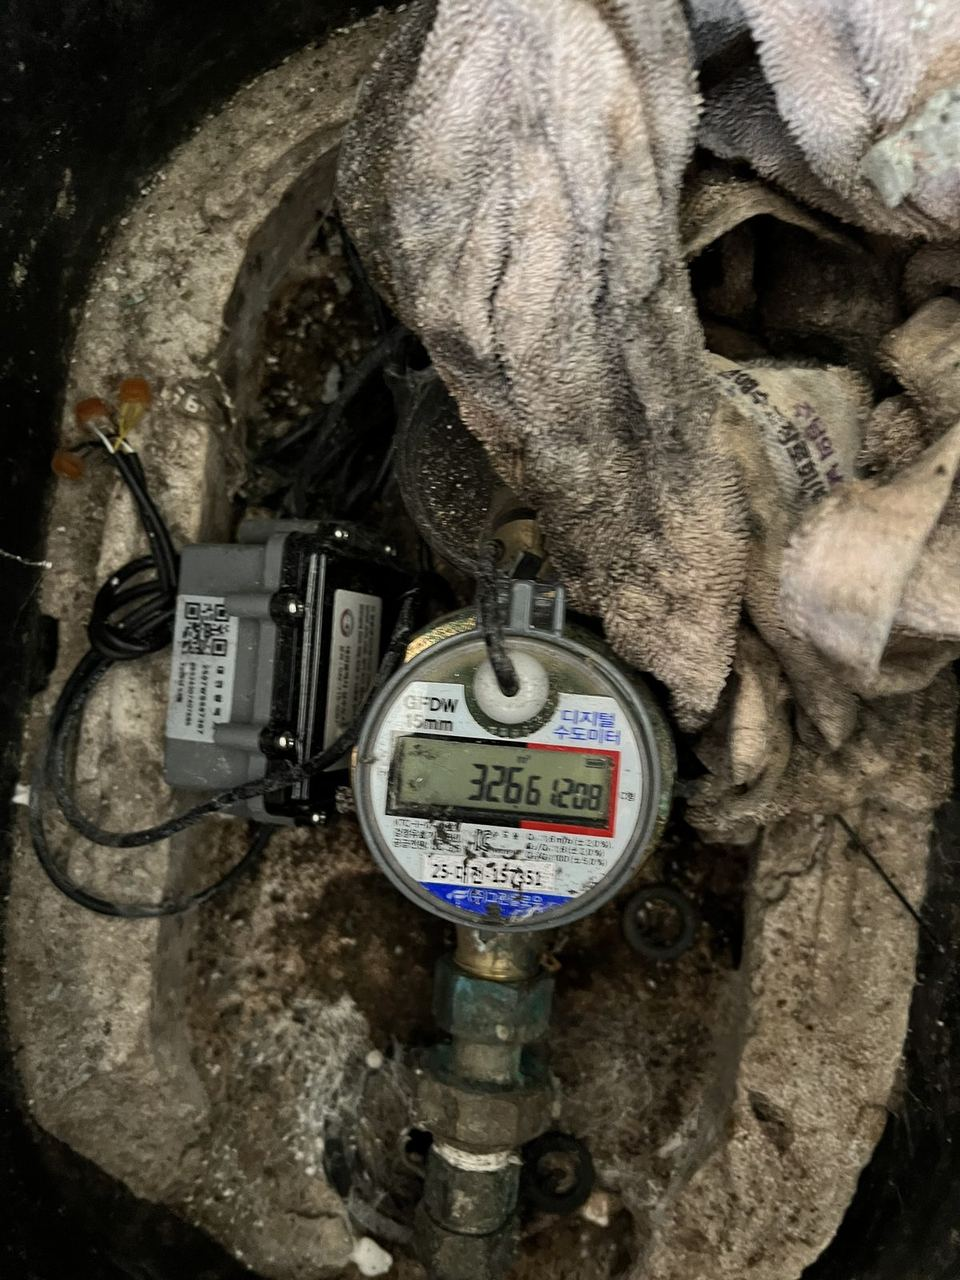
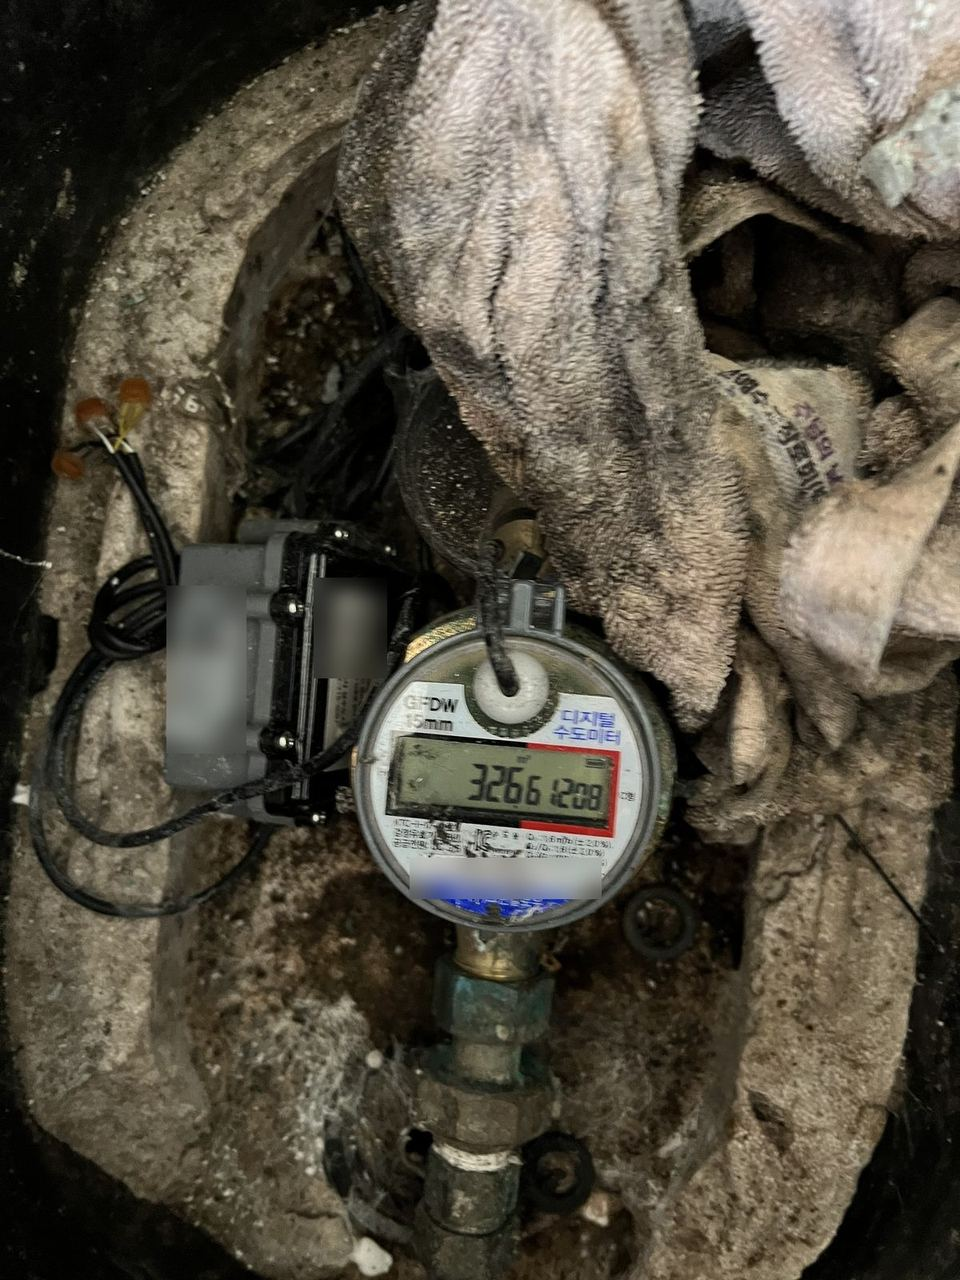
사진 세 장에서 읽히던 식별 정보를 가린다 — 벽 손글씨 동·호수, 교회 간판, 계량기 봉인 번호
대표 승인(2026-09-26): 가림 처리 · 간판 모자이크 · 흐릿하게.
- 평화로운아파트 표지(= 본문 첫 사진, 같은 파일): 피트 벽 왼쪽 아래 손글씨 '101동 402호'와 그 아래 글씨를
  흐림+모자이크. 고객 세대가 공개 표지·og:image 로 나가고 있었다.
- 대전 교회 사진 1: 종탑 간판을 모자이크. 글은 계속 '대전 교회'로 부른다.
- 문화동 마당 밸브 사진 5: 계량기 봉인 번호띠·원격검침 단말의 QR·일련번호·라벨을 흐림(검침 숫자판은 남김).

같은 파일명에 덮어써 글·alt·캡션·사진 순서는 그대로다. 크기(3024×4032 / 1600×1200 / 1200×1600)와
EXIF 없음도 그대로. 축소본(480w·960w)은 이 네 파일 것만 다시 만들었다 — build-image-variants 가 mtime 으로
94개를 다시 굽길래 나머지는 되돌렸다(내용이 같은데 인코딩만 달라 diff 만 늘어난다).

Claude-Session: https://claude.ai/code/session_015oW3sPWiipP4RJpNWgbdAj

Changed region(s): [[0.1562, 0.4375, 0.25, 0.5938], [0.4375, 0.6562, 0.625, 0.7188], [0.3125, 0.4375, 0.4062, 0.5312]]

diff --git a/docs/운영/사례글-검토-대표확인-20260926.md b/docs/운영/사례글-검토-대표확인-20260926.md
@@ -21,10 +21,10 @@
 `pyeonghaneul-apartment-leak-repair-20260909`
 
 4. 표지·[1] 사진(pyeonghaneul-leak-1.jpg = leak-cover.jpg, 같은 파일) 왼쪽 아래 피트 벽에 손글씨 '101동 402호'가 확대하면 읽힙니다(직접 확인). 그 부분을 가리거나 아래쪽을 잘라낸 사진으로 같은 파일명에 덮어써도 될까요(글·alt·캡션은 그대로, 20MB 넘는 원본 크기도 그때 같이 줄이겠습니다)?
-   - 답:
+   - 답: **가림 처리(대표 2026-09-26)** — 손글씨 두 군데를 흐림+모자이크로 가리고 같은 파일명(cover·leak-1)에 덮어씀. 처리 완료.
 
 5. 위 82와 같은 건 — 표지 사진의 '101동 402호' 손글씨 가림 처리를 승인해 주시겠어요?
-   - 답:
+   - 답: 위와 같음 — 처리 완료.
 
 6. 마무리 문단의 서비스 지역 '대전·세종·논산·청주' 중 '청주'는 다른 33건 어디에도 없습니다 — 청주도 실제 영업 지역이 맞나요, 아니면 빼는 게 맞나요?
    - 답:
@@ -75,10 +75,10 @@
 `daejeon-jung-gu-yard-water-valve-leak`
 
 16. leak-5.jpg 의 디지털 수도계량기 봉인 라벨 번호('25-대전-157351')와 왼쪽 원격검침 단말의 QR·일련번호가 그대로 읽힙니다. 평화로운아파트 글(pyeonghaneul-leak-8.jpg)은 계량기 표시부를 흐리게 처리해 두었는데, 이 사진도 같은 기준으로 흐림 처리해서 같은 파일명으로 덮어써도 될까요? (글·alt·캡션은 그대로, 사진 파일만 바뀝니다)
-   - 답:
+   - 답: **흐림 처리(대표 2026-09-26)** — 봉인 번호띠·단말 QR/일련번호·라벨을 흐리게 하고 같은 파일명에 덮어씀(검침 숫자판은 그대로). 처리 완료.
 
 17. 위 85번과 같은 사진·같은 질문입니다 — 계량기 번호띠와 단말 QR/일련번호 흐림 처리 여부만 결정해 주시면 됩니다(검침 숫자판은 남겨도 됩니다).
-   - 답:
+   - 답: 위와 같음 — 처리 완료.
 
 ## 대전 한밭우성아파트 베란다 우수관 보수, 바닥 배수구부터 하부 부속까지
 `apartment-balcony-rain-pipe-replacement`
@@ -141,10 +141,10 @@
 `daejeon-church-canopy`
 
 29. daejeon-church-canopy-1.jpg 종탑 간판에 '중부침례교회'가 또렷이 읽히는데 글은 '대전 교회'로 이름을 숨겼습니다 — 교회 측이 이름 공개에 동의했습니까(동의했으면 글에 이름을 쓰고, 아니면 사진의 간판을 가려야 합니다)?
-   - 답:
+   - 답: **간판 모자이크(대표 2026-09-26)** — 간판을 모자이크 처리해 같은 파일명에 덮어씀. 글의 '대전 교회' 표기는 그대로. 처리 완료.
 
 30. (84와 같은 사항) 사진 -1.jpg 의 '중부침례교회' 간판 — 이름 공개 동의 여부에 따라 글에 이름을 넣을지, 간판을 흐릴지 정해 주세요.
-   - 답:
+   - 답: 위와 같음 — 처리 완료.
 
 ## 대전 태산그린아파트 렉산 고정대 교체 — 판을 받치는 틀을 손봤습니다
 `taesan-lexan-frame`
